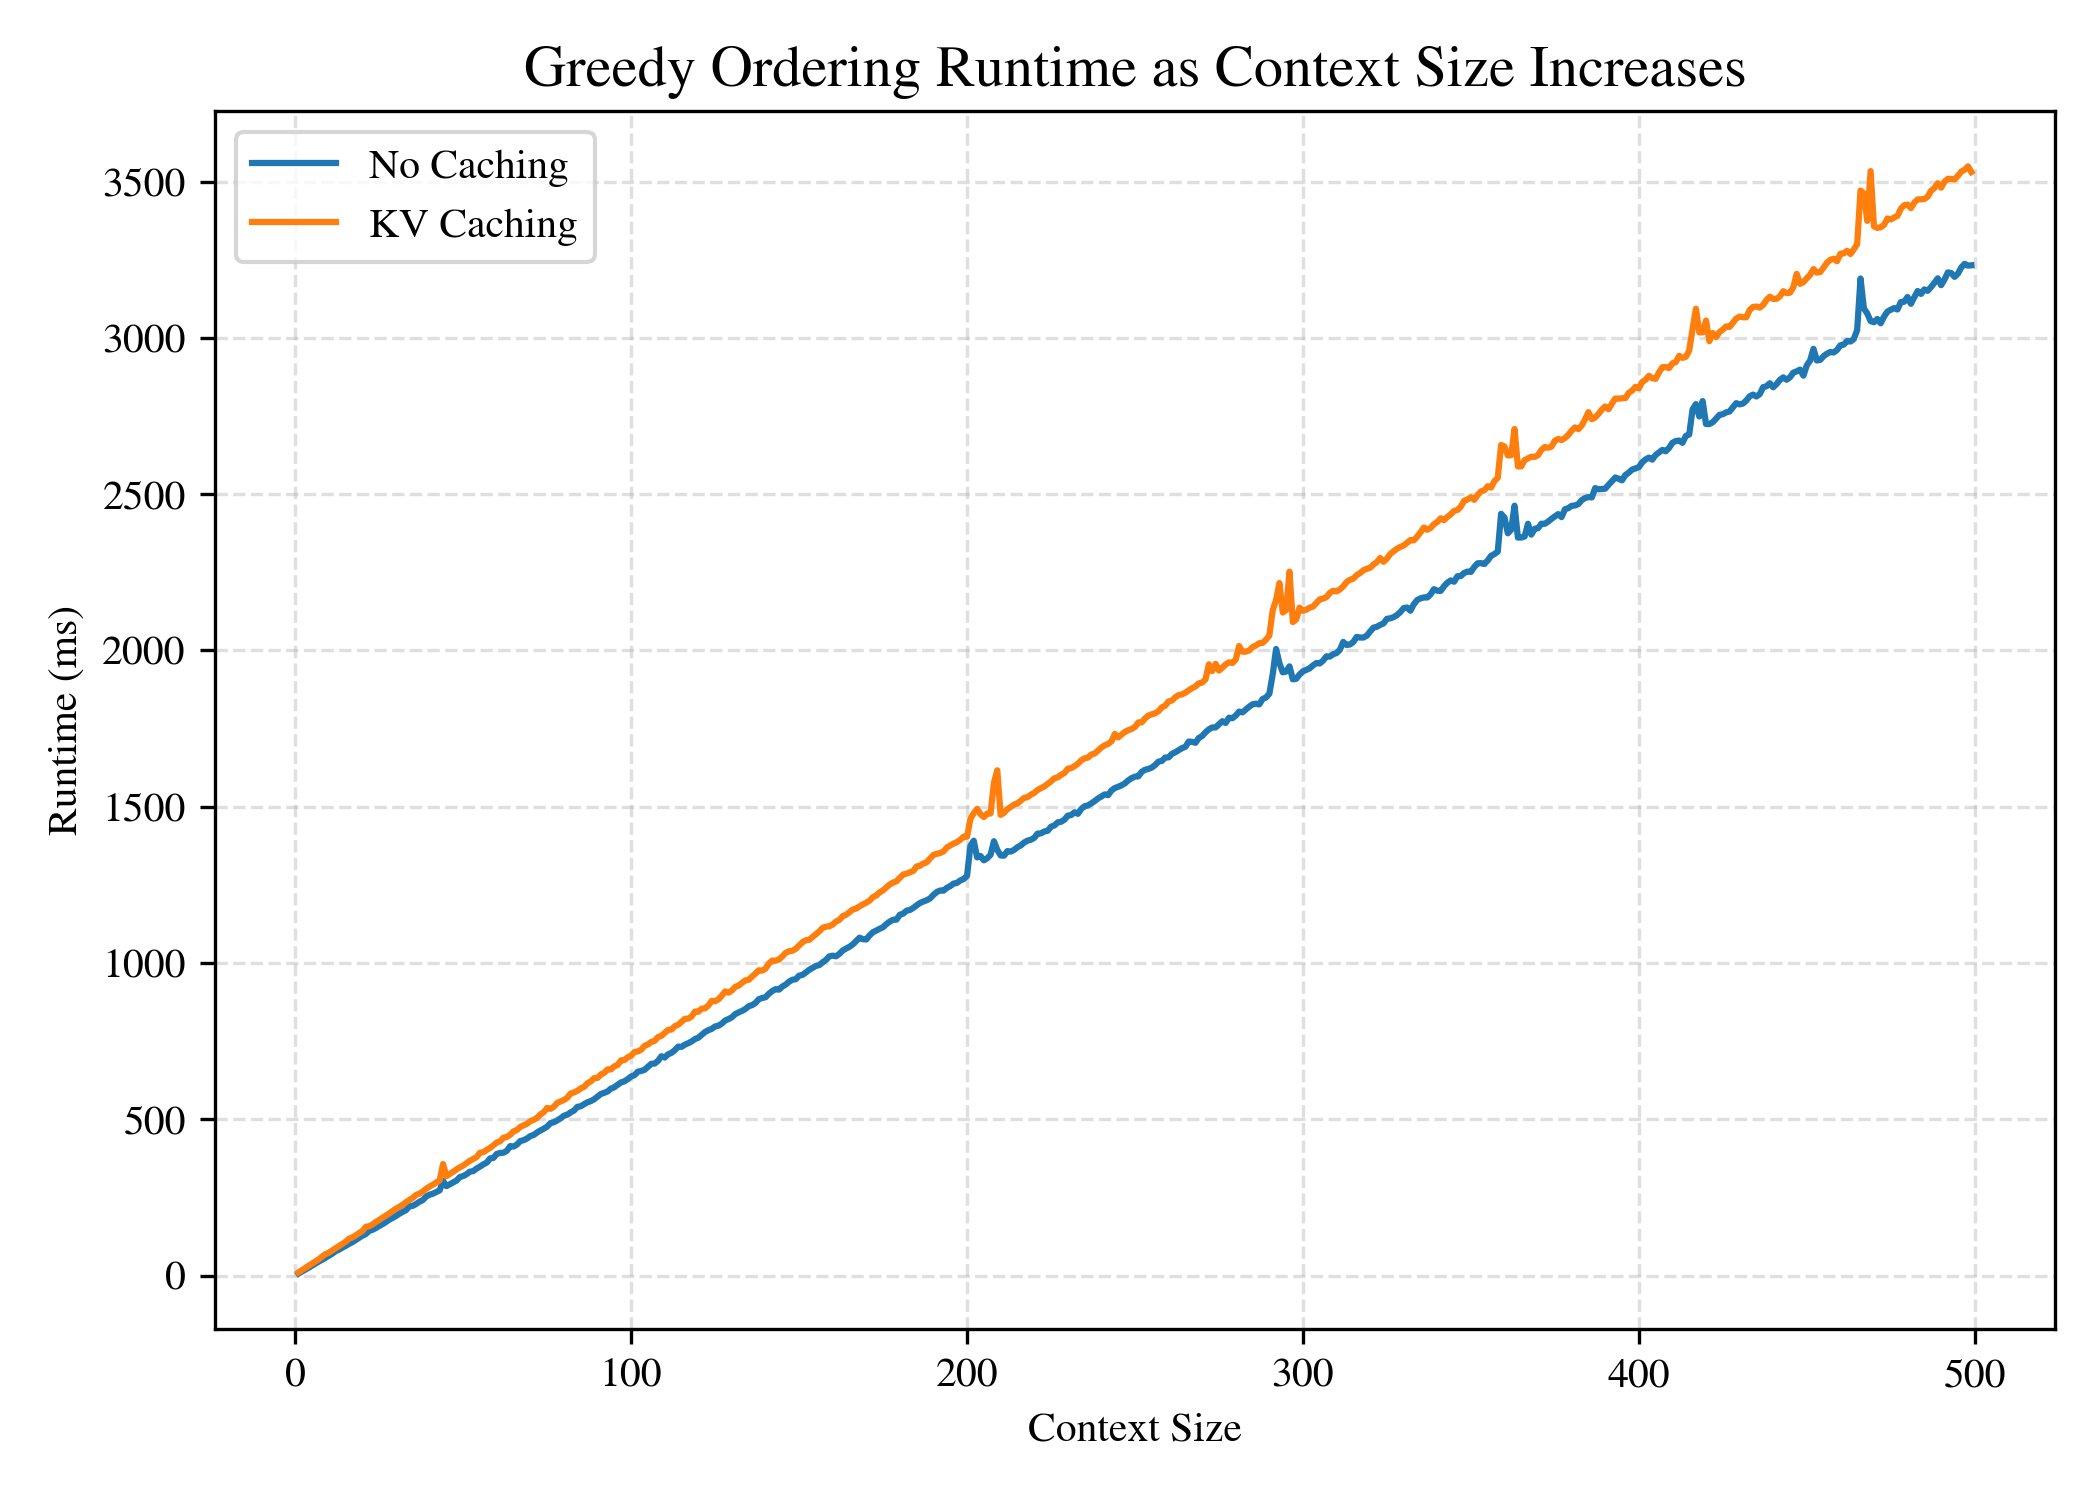
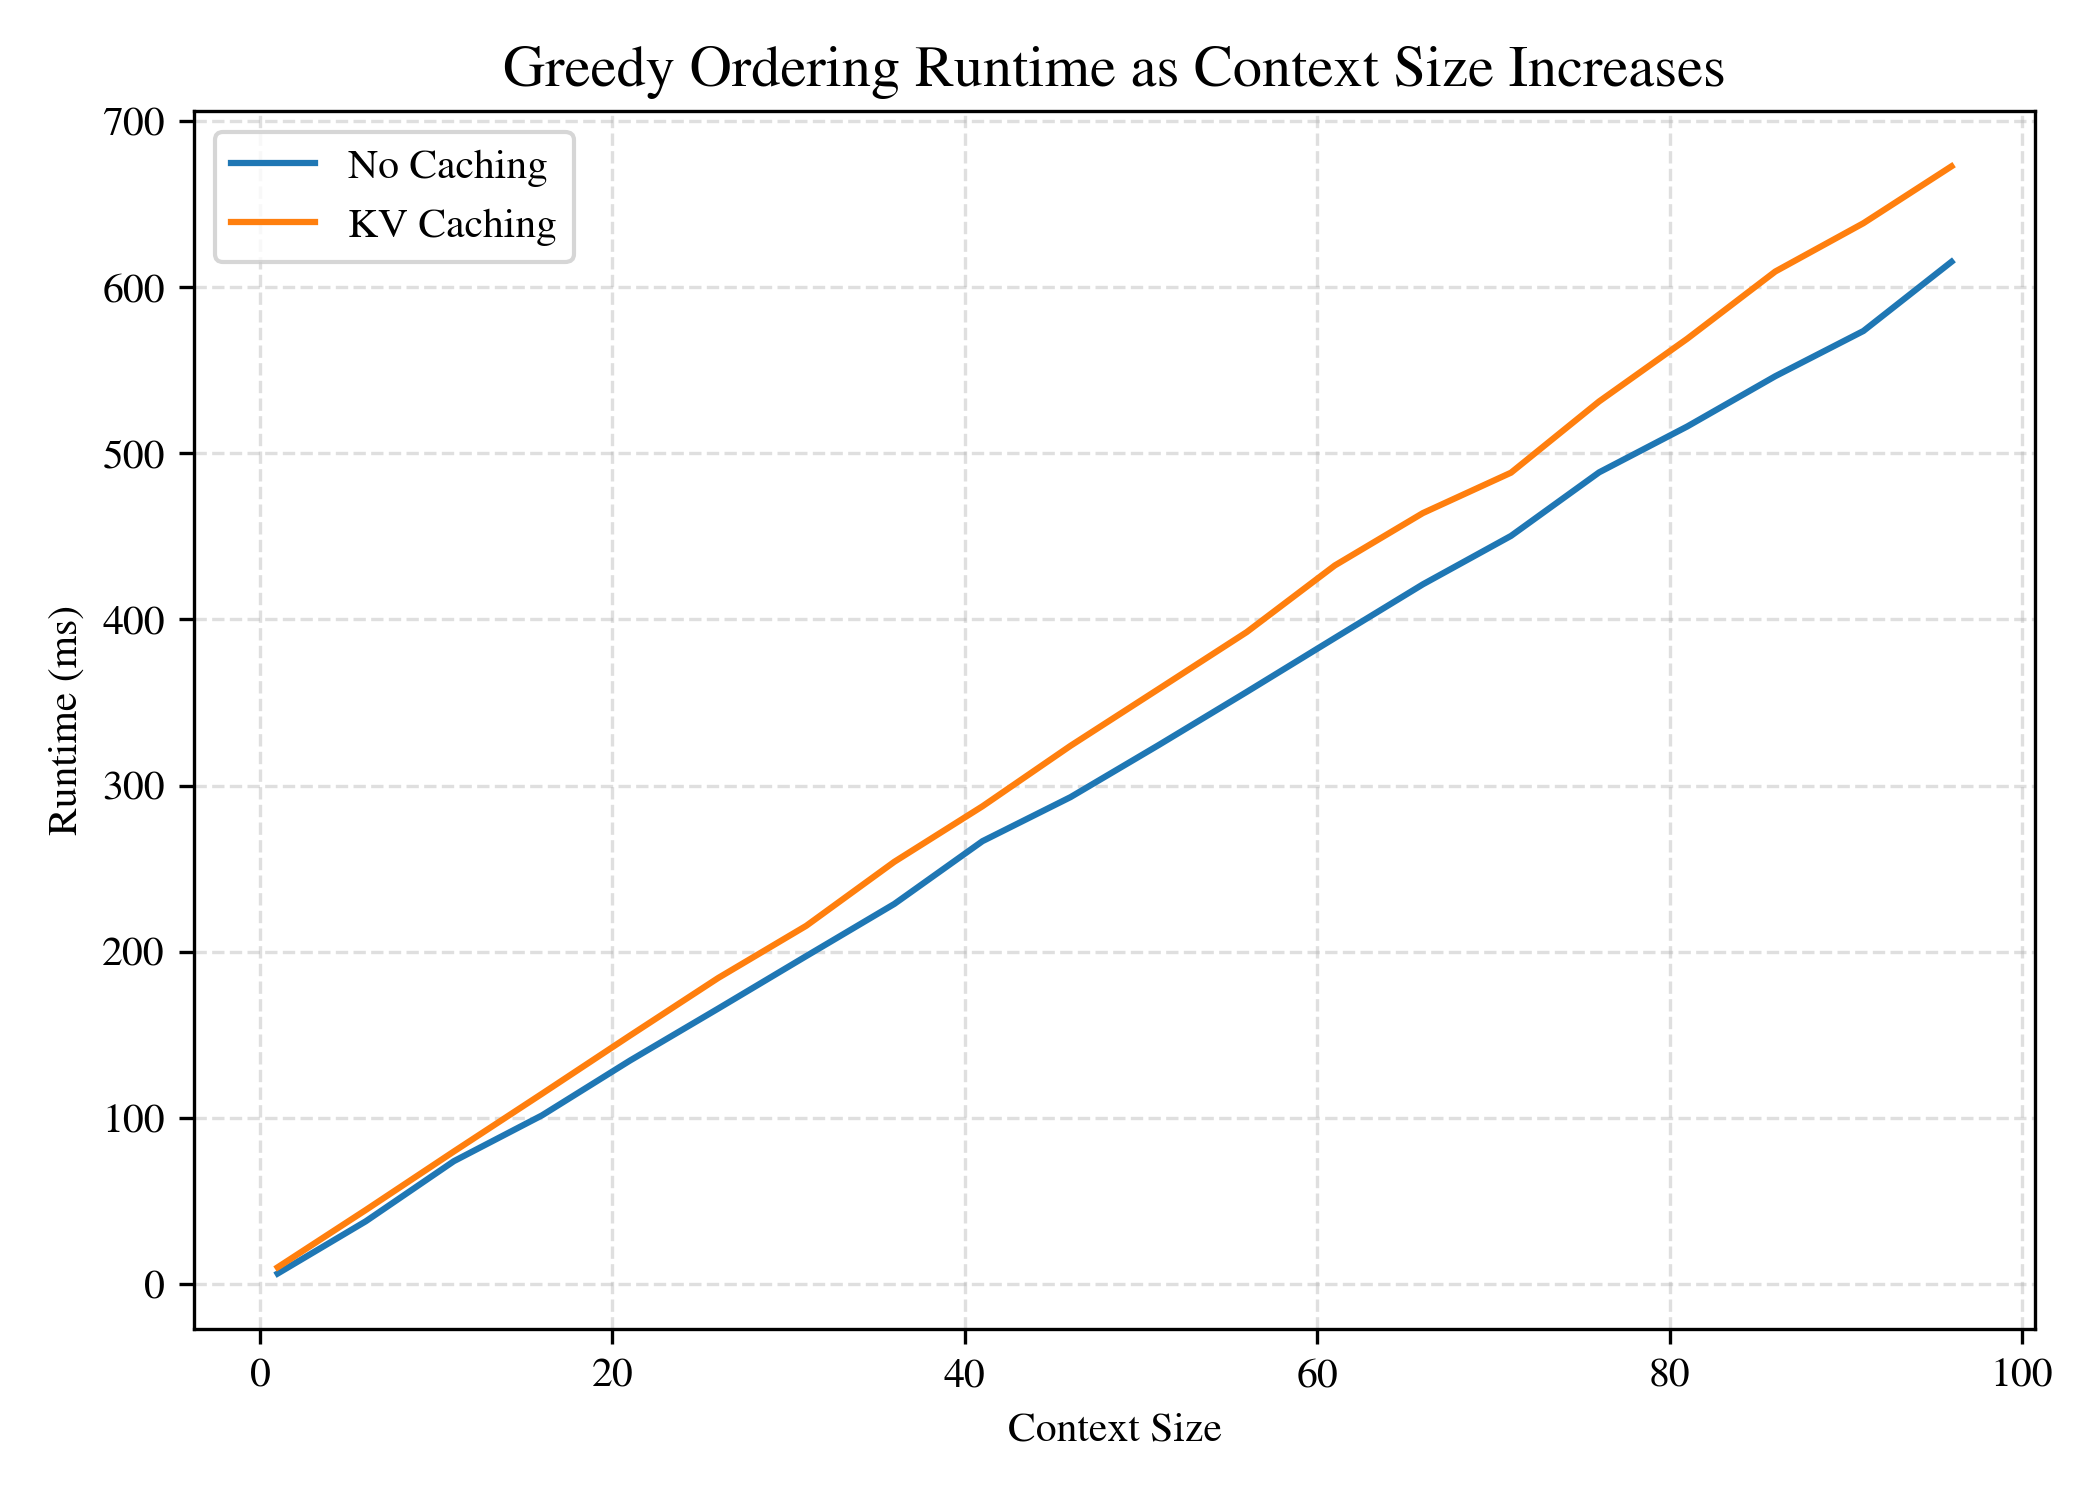
Sync

diff --git a/tnp/models/incTNPa.py b/tnp/models/incTNPa.py
@@ -1,1 +1,181 @@
-# Causally masked autoregressice incremental TNP
+# Causally masked autoregressice incremental TNP. Same as TNP-A just using causal masking for effecient incremental updates.
+# Autoregressive TNP - using the outline from Nguyen and Grover (https://arxiv.org/pdf/2207.04179) https://github.com/tung-nd/TNP-pytorch
+# But merging with the style from this code base for baseline TNPs https://github.com/cambridge-mlg/tnp
+from typing import Optional, Union
+
+import torch
+from check_shapes import check_shapes
+from torch import nn
+import torch.distributions as td
+
+from .tnp import TNPDecoder
+from ..utils.helpers import preprocess_observations
+from ..networks.transformer import TransformerEncoder
+from .base import ARTNPNeuralProcess
+
+from ..likelihoods.gaussian import HeteroscedasticNormalLikelihood
+
+
+
+class ARincTNPEncoder(nn.Module):
+    def __init__(
+        self,
+        transformer_encoder: Union[TransformerEncoder],
+        xy_encoder: nn.Module,
+        x_encoder: nn.Module = nn.Identity(),
+        y_encoder: nn.Module = nn.Identity(),
+    ):
+        super().__init__()
+
+        self.transformer_encoder = transformer_encoder
+        self.xy_encoder = xy_encoder
+        self.x_encoder = x_encoder
+        self.y_encoder = y_encoder
+
+    @check_shapes(
+        "xc: [m, nc, dx]", "yc: [m, nc, dy]", "xt: [m, nt, dx]", "yt: [m, nt, dy]", "return: [m, n, dz]"
+    )
+    def forward(
+        self, xc: torch.Tensor, yc: torch.Tensor, xt: torch.Tensor, yt: torch.Tensor
+    ) -> torch.Tensor:
+        m = xc.shape[0]
+        # Preprocesses observations
+        yc = torch.cat((yc, torch.zeros(yc.shape[:-1] + (1,)).to(yc)), dim=-1)
+        yt = torch.cat((yt, torch.ones(yt.shape[:-1] + (1,)).to(yt)), dim=-1)
+
+        # Encodes x and y
+        x = torch.cat((xc, xt), dim=1)
+        x_encoded = self.x_encoder(x)
+        xc_encoded, xt_encoded = x_encoded.split((xc.shape[1], xt.shape[1]), dim=1)
+
+        y = torch.cat((yc, yt), dim=1)
+        y_encoded = self.y_encoder(y)
+        yc_encoded, yt_encoded = y_encoded.split((yc.shape[1], yt.shape[1]), dim=1)
+        
+        # Concats ctx with fake and real target points
+        inp = self._construct_input(xc_encoded, yc_encoded, xt_encoded, yt_encoded)
+        mask, num_tar = self._create_mask(num_ctx=xc.shape[1], num_tar=xt.shape[1], device=xt.device)
+       # mask = mask.unsqueeze(0).expand(m, -1, -1) # [m, nc + 2*nt, nc+2*nt]  Broadcast mask to batch
+
+        # Embeds data and runs through transformer encoder
+        embeddings = self.xy_encoder(inp)
+        out = self.transformer_encoder(embeddings, mask=mask)
+
+        return out[:, -num_tar:]
+
+
+    def _construct_input(self, xc: torch.Tensor, yc: torch.Tensor, xt: torch.Tensor, yt: torch.Tensor):
+        x_y_ctx = torch.cat((xc, yc), dim=-1)
+        x_0_tar = torch.cat((xt, torch.zeros_like(yt)), dim=-1)
+
+        x_y_tar = torch.cat((xt, yt), dim=-1) #  Note currently no support for bound_std but may want to add (think this is handled by the lilkelihood dist)
+        #if self.training and bound_std:
+        #    yt_noise = yt + 0.05 * torch.randn_like(yt) # add noise to the past to smooth the model
+        #    x_y_tar = torch.cat((xt, yt_noise), dim=-1)
+        #else:
+        #    x_y_tar = torch.cat((xt, yt), dim=-1)
+        inp = torch.cat((x_y_ctx, x_y_tar, x_0_tar), dim=1) # [m, nc + 2*nt, dx + dy + 1] (probably - depends on encoders etc)
+        return inp
+
+    def _create_mask(self, num_ctx, num_tar, device):
+        num_all = num_ctx + num_tar
+        mask = torch.zeros((num_all+num_tar, num_all+num_tar), device=device).fill_(float('-inf'))
+        mask[:, :num_ctx] = 0.0 # all points attend to context points
+        mask[:num_ctx, :num_ctx].triu_(diagonal=1).fill_(float('-inf')) # incTNP causal mask - context points can only attend to preceding context points -> enabling effecient incremenal AR updates.
+        print(mask[:num_ctx, :num_ctx])
+        mask[num_ctx:num_all, num_ctx:num_all].triu_(diagonal=1) # each real target point attends to itself and precedding real target points
+        mask[num_all:, num_ctx:num_all].triu_(diagonal=0) # each fake target point attends to preceeding real target points
+
+        return mask, num_tar
+
+class incTNPA(ARTNPNeuralProcess):
+    def __init__(
+        self,
+        encoder: ARincTNPEncoder,
+        decoder: TNPDecoder,
+        likelihood: Union[HeteroscedasticNormalLikelihood],
+        permute: bool = True,
+        no_samples_rollout_pred: int = 50 # The number of samples to be used when doing predictive rollout. Note could change on fly if wanted
+    ):
+        super().__init__(encoder, decoder, likelihood)
+
+        self.permute= permute
+        self.num_samples = no_samples_rollout_pred
+
+
+    @check_shapes(
+    "xc: [m, nc, dx]", "yc: [m, nc, dy]", "xt: [m, nt, dx]"
+    )  
+    def _predict(self, xc: torch.Tensor, yc: torch.Tensor, xt: torch.Tensor, num_samples) -> td.Normal:
+        batch_size = xc.shape[0]
+        num_target = xt.shape[1]
+        
+        def squeeze(x):
+            return x.view(-1, x.shape[-2], x.shape[-1])
+        def unsqueeze(x):
+            return x.view(num_samples, batch_size, x.shape[-2], x.shape[-1])
+
+        xc_stacked = self._stack_tnpapaper(xc, num_samples)
+        yc_stacked = self._stack_tnpapaper(yc, num_samples)
+        xt_stacked = self._stack_tnpapaper(xt, num_samples)
+        yt_pred = torch.zeros((batch_size, num_target, yc.shape[2]), device=xt.device)
+        yt_stacked = self._stack_tnpapaper(yt_pred, num_samples)
+        if self.permute:
+            xt_stacked, yt_stacked, dim_sample, dim_batch, deperm_ids = self._permute_sample_batch(xt_stacked, yt_stacked, num_samples, batch_size, num_target)
+
+        batch_xc = squeeze(xc_stacked) # [m * num_samples, nc, dx]
+        batch_yc = squeeze(yc_stacked)
+        batch_xt = squeeze(xt_stacked)
+        batch_yt = squeeze(yt_stacked)
+
+        for step in range(xt.shape[1]):
+            z_target_stacked = self.encoder(batch_xc, batch_yc, batch_xt, batch_yt) # [m * num_samples, nt, dz]
+            z_target_stacked = z_target_stacked[..., -xt.shape[-2] :, :] # [m * num_samples, nt, dz] - appears to do nothing
+            out = self.decoder(z_target_stacked) # [m * num_samples, nt, 2 * dy]
+            out = self.likelihood(out)
+
+            assert isinstance(out, td.Normal), "TNPAR must predict a Gaussian"
+            mean, std = out.mean, out.stddev
+            mean, std = unsqueeze(mean), unsqueeze(std)
+            batch_yt = unsqueeze(batch_yt)
+            batch_yt[:, :, step] = td.Normal(mean[:, :, step], std[:, :, step]).sample()
+            batch_yt = squeeze(batch_yt)
+
+            # Note currently no support for bound_std but may want to consider in future
+
+        if self.permute:
+            mean, std = mean[dim_sample, dim_batch, deperm_ids], std[dim_sample, dim_batch, deperm_ids]
+
+        return td.Normal(mean, std)
+
+    # Unrolls monte carlo estimate of a predictive distribution into a mixture. Can use this to access mean and std dev e.g. for plotting
+    @check_shapes(
+    "xc: [m, nc, dx]", "yc: [m, nc, dy]", "xt: [m, nt, dx]"
+    )  
+    def predictive_distribution_monte_carlo(self, xc: torch.Tensor, yc: torch.Tensor, xt: torch.Tensor) -> td.MixtureSameFamily:
+        dist = self._predict(xc, yc, xt, self.num_samples)
+        mean, std = dist.mean, dist.stddev # mean and std both have shape [s, m, nt, dy] where m = 1 probably
+        s, m, nt, dy = mean.shape
+        # Reorders to [m, nt, dy, s] - needed for mixture
+        mean = mean.permute(1,2,3,0)
+        std  = std.permute(1,2,3,0)
+        
+        mix  = td.Categorical(torch.full((m, nt, dy, s), 1.0 / s, device=xt.device))
+        comp = td.Normal(mean, std)
+        approx_dist = td.MixtureSameFamily(mix, comp)
+        return approx_dist
+        
+        
+
+    def _stack_tnpapaper(self, x, num_samples=None, dim=0):
+        return x if num_samples is None \
+                else torch.stack([x]*num_samples, dim=dim)
+
+    def _permute_sample_batch(self, xt, yt, num_samples, batch_size, num_target):
+        # data in each batch is permuted identically
+        perm_ids = torch.rand(num_samples, num_target, device=xt.device).unsqueeze(1).repeat((1, batch_size, 1))
+        perm_ids = torch.argsort(perm_ids, dim=-1)
+        deperm_ids = torch.argsort(perm_ids, dim=-1)
+        dim_sample = torch.arange(num_samples, device=xt.device).unsqueeze(-1).unsqueeze(-1).repeat((1,batch_size,num_target))
+        dim_batch = torch.arange(batch_size, device=xt.device).unsqueeze(0).unsqueeze(-1).repeat((num_samples,1,num_target))
+        return xt[dim_sample, dim_batch, perm_ids], yt[dim_sample, dim_batch, perm_ids], dim_sample, dim_batch, deperm_ids

diff --git a/experiments/kv_cache_plots.py b/experiments/kv_cache_plots.py
@@ -382,15 +382,16 @@ def compare_decoding_times():
     # Compare params
     burn_in = 1 # Number of burn in runs to ignore
     aggregate_over = 1 # Number of runs to aggregate data over
-    token_step = 1 # How many increments of tokens to go up in
+    token_step = 5 # How many increments of tokens to go up in
     min_nc = 1
-    max_nc = 500
+    max_nc = 100
     dx, dy, m = 1, 1, 1
     # End of params
     device='cuda'
     model = get_model('experiments/configs/synthetic1dRBF/gp_priorbatched_causal_tnp_rbf_rangesame.yml', 'pm846-university-of-cambridge/mask-priorbatched-tnp-rbf-rangesame/model-smgj3gn6:v200', device=device)
     model.eval()
     context_sizes = np.arange(start=min_nc, stop=max_nc, step=token_step, dtype=int)
+    #print(context_sizes)
     runtime = np.zeros((aggregate_over, len(context_sizes)))
     memory = np.zeros((aggregate_over, len(context_sizes)))
     max_high = 2
